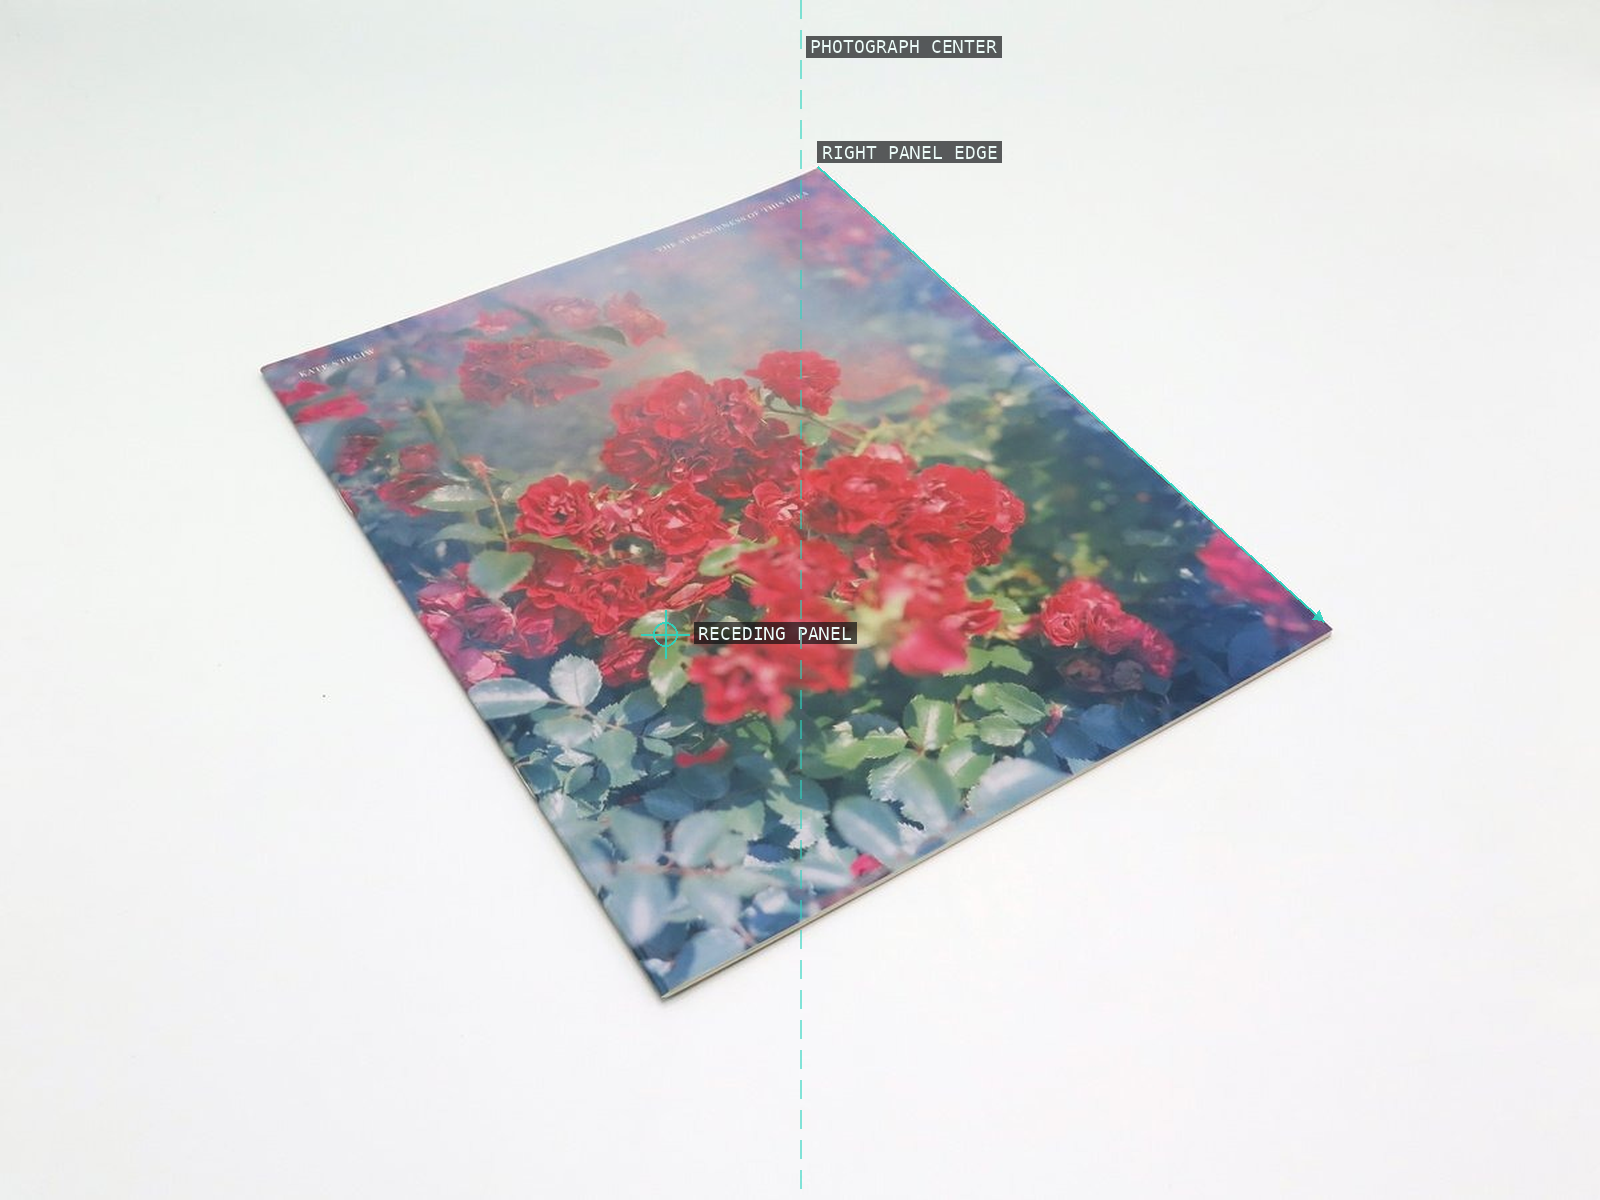
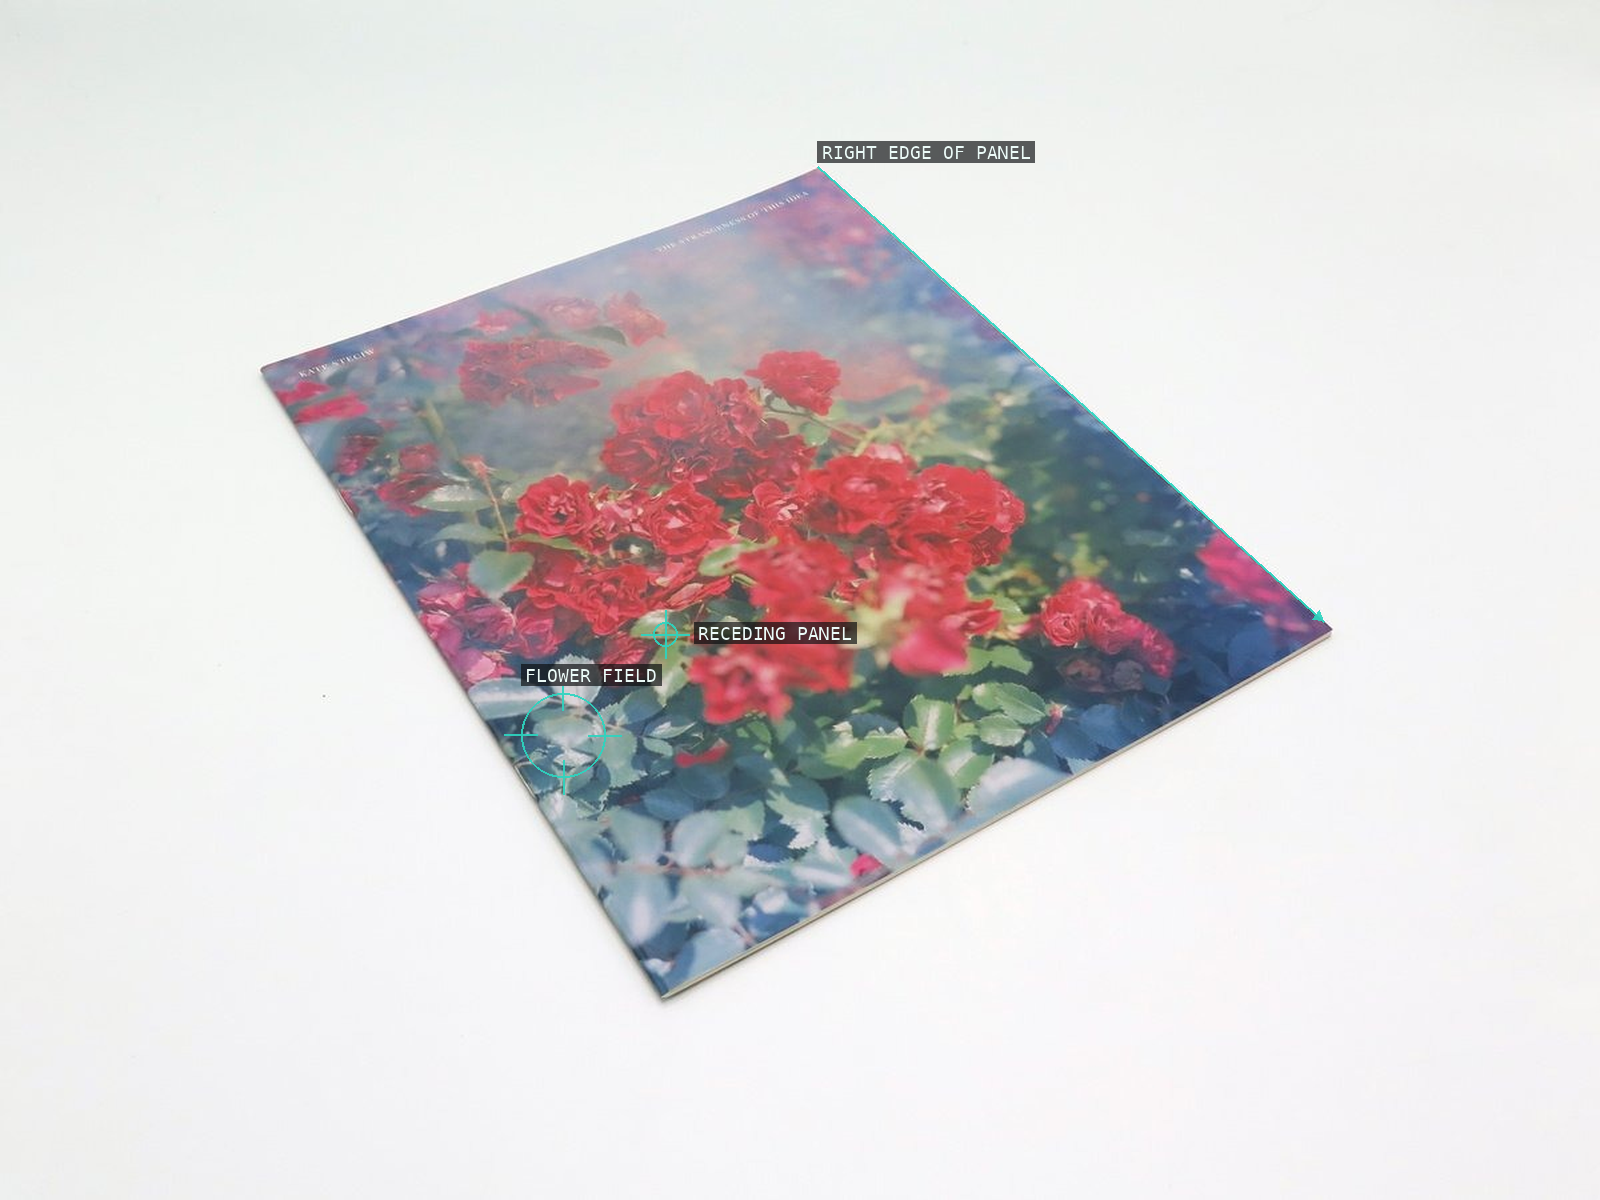
resolve critique: kate-steciw

Changed region(s): [[0.5625, 0.0925, 0.6562, 0.1542], [0.5, 0.0308, 0.625, 0.0617], [0.3125, 0.555, 0.4375, 0.5858]]

diff --git a/content/kate-steciw/proofs/index.html b/content/kate-steciw/proofs/index.html
@@ -1,15 +1,13 @@
 <!doctype html>
-<html lang="en"><head><meta charset="utf-8"><title>Kate Steciw overlay proofs</title><style>body{background:#111;color:#eee;font:14px system-ui;margin:24px}main{display:grid;grid-template-columns:repeat(auto-fit,minmax(280px,1fr));gap:18px}figure{margin:0}img{display:block;width:100%;height:auto}figcaption{margin-top:6px}</style></head><body><h1>Kate Steciw — overlay proofs</h1><main>
-<figure><img src="01-the-strangeness-of-this-idea.png" alt="Overlay proof 01"><figcaption>01 — The Strangeness of This Idea</figcaption></figure>
-<figure><img src="02-construction-433.png" alt="Overlay proof 02"><figcaption>02 — Construction 433</figcaption></figure>
-<figure><img src="03-construction-1029.png" alt="Overlay proof 03"><figcaption>03 — Construction 1029</figcaption></figure>
-<figure><img src="04-construction-143.png" alt="Overlay proof 04"><figcaption>04 — Construction 143</figcaption></figure>
-<figure><img src="05-construction-034.png" alt="Overlay proof 05"><figcaption>05 — Construction 034</figcaption></figure>
-<figure><img src="06-monster-mash-up.png" alt="Overlay proof 06"><figcaption>06 — Monster Mash-up</figcaption></figure>
-<figure><img src="07-dwelling-dialogue.png" alt="Overlay proof 07"><figcaption>07 — Dwelling dialogue</figcaption></figure>
-<figure><img src="08-clean-machine.png" alt="Overlay proof 08"><figcaption>08 — Clean Machine</figcaption></figure>
-<figure><img src="09-img-0383-heicxpict0711.png" alt="Overlay proof 09"><figcaption>09 — IMG_0383.HEICXPICT0711.JPG</figcaption></figure>
-<figure><img src="10-n192914785151-template015.png" alt="Overlay proof 10"><figcaption>10 — N192914785151 Template</figcaption></figure>
-<figure><img src="11-adjustment-exercise-0004-pdf-1-3.png" alt="Overlay proof 11"><figcaption>11 — Adjustment Exercise</figcaption></figure>
-<figure><img src="12-armchair-background-basic-beauty.png" alt="Overlay proof 12"><figcaption>12 — Armchair…Texture</figcaption></figure>
-</main></body></html>
+<html lang="en"><head><meta charset="utf-8"><title>Kate Steciw overlay proofs</title><style>body{font-family:system-ui;margin:24px;background:#18181b;color:#fafafa}main{display:grid;grid-template-columns:repeat(auto-fit,minmax(320px,1fr));gap:20px}figure{margin:0}img{display:block;width:100%;height:auto}figcaption{padding-top:6px;font-size:13px;word-break:break-word}</style></head><body><main><figure><img src="01-the-strangeness-of-this-idea.png" alt="01-the-strangeness-of-this-idea overlay proof"><figcaption>01-the-strangeness-of-this-idea</figcaption></figure>
+<figure><img src="02-construction-433.png" alt="02-construction-433 overlay proof"><figcaption>02-construction-433</figcaption></figure>
+<figure><img src="03-construction-1029.png" alt="03-construction-1029 overlay proof"><figcaption>03-construction-1029</figcaption></figure>
+<figure><img src="04-construction-143.png" alt="04-construction-143 overlay proof"><figcaption>04-construction-143</figcaption></figure>
+<figure><img src="05-construction-034.png" alt="05-construction-034 overlay proof"><figcaption>05-construction-034</figcaption></figure>
+<figure><img src="06-monster-mash-up.png" alt="06-monster-mash-up overlay proof"><figcaption>06-monster-mash-up</figcaption></figure>
+<figure><img src="07-dwelling-dialogue.png" alt="07-dwelling-dialogue overlay proof"><figcaption>07-dwelling-dialogue</figcaption></figure>
+<figure><img src="08-clean-machine.png" alt="08-clean-machine overlay proof"><figcaption>08-clean-machine</figcaption></figure>
+<figure><img src="09-img-0383-heicxpict0711.png" alt="09-img-0383-heicxpict0711 overlay proof"><figcaption>09-img-0383-heicxpict0711</figcaption></figure>
+<figure><img src="10-n192914785151-template015.png" alt="10-n192914785151-template015 overlay proof"><figcaption>10-n192914785151-template015</figcaption></figure>
+<figure><img src="11-adjustment-exercise-0004-pdf-1-3.png" alt="11-adjustment-exercise-0004-pdf-1-3 overlay proof"><figcaption>11-adjustment-exercise-0004-pdf-1-3</figcaption></figure>
+<figure><img src="12-armchair-background-basic-beauty.png" alt="12-armchair-background-basic-beauty overlay proof"><figcaption>12-armchair-background-basic-beauty</figcaption></figure></main></body></html>

diff --git a/content/kate-steciw/sources.md b/content/kate-steciw/sources.md
@@ -1,6 +1,6 @@
 # Kate Steciw — source shortlist
 
-This twelve-work set follows Kate Steciw from the early photograph-object experiment *The Strangeness of This Idea* through the hanging *Construction* works and recent canvas collages. It concentrates on the compositional question that recurs throughout the practice: how a screen-born image is made to behave as a physical, discontinuous object. Eleven files were retrieved from Steciw’s publicly accessible portfolio, which supplies the captions, dates, media, and full-frame display images. *Armchair* was retrieved from the International Center of Photography’s public exhibition record, which identifies the work, date, copyright, and installation photographer. Every saved file opens successfully and is at least 629px on the long edge; the sole 629px short edge is immaterial because the required measure is the long edge (800px).
+This twelve-work set follows Kate Steciw from the early photograph-object experiment *The Strangeness of This Idea* through the 2015 *Construction* works and recent canvas collages. It concentrates on the compositional question that recurs throughout the practice: how a screen-born image is made to behave as a physical, discontinuous object. Eleven files were retrieved from Steciw’s publicly accessible portfolio, which supplies the captions, dates, media, and full-frame display images. *Armchair* was retrieved from the International Center of Photography’s public exhibition record, which identifies the work, date, copyright, and installation photographer. Every saved file opens successfully and is at least 629px on the long edge; the sole 629px short edge is immaterial because the required measure is the long edge (800px).
 
 **Rights basis:** **fair-use** for every selection. These are copyrighted contemporary works, and neither the artist portfolio nor ICP’s exhibition page grants an open licence. Each assessment applies all four factors individually: (1) this nonprofit book uses the image transformatively for criticism, scholarship, and composition teaching; (2) the work is highly creative; (3) the complete published frame is necessary to analyze the work’s framing, cuts, overlays, material supports, and spatial cues, rather than merely illustrating it; and (4) the credited web-sized copy links to the artist or museum record and does not replace the original, a gallery record, or a licensed reproduction. The direct image URLs below are public display responses only; they are not asserted to be permissioned production files.
 
@@ -8,9 +8,9 @@ This twelve-work set follows Kate Steciw from the early photograph-object experi
 
 ### 01 — *The Strangeness of This Idea* (2010)
 
-- **Why it matters:** The paired, tilted panels make the photograph’s frame into an active seam: a mundane car-door image becomes a misaligned object whose central gap defeats ordinary pictorial continuity.
+- **Why it matters:** The single flower-covered panel is photographed low and obliquely on a pale floor, making its thin edge and receding rectangle as legible as the floral picture.
 - **Source:** https://katesteciw.me/ (official artist portfolio; public display image: https://images.squarespace-cdn.com/content/v1/5a32ffcc0abd04e3ddaa6f20/1711723030731-QC1L9XSXO1BWT0GJNOK4/HB014_1.jpg?format=original)
-- **Rights / fair-use assessment:** Kate Steciw, *The Strangeness of This Idea*, 2010; rightsholder: Kate Steciw (no separate copyright line on the portfolio entry). **Factor 1:** transformative criticism studies the split, rotation, and central seam. **Factor 2:** highly creative contemporary photographic/object work. **Factor 3:** the complete two-panel view is necessary to assess the gap and their reciprocal angles. **Factor 4:** this credited 1200 × 900px public display file is record-linked and cannot substitute for the work or a licensed reproduction.
+- **Rights / fair-use assessment:** Kate Steciw, *The Strangeness of This Idea*, 2010; rightsholder: Kate Steciw (no separate copyright line on the portfolio entry). **Factor 1:** transformative criticism analyzes the low, oblique view, visible edge, and shift from floral image to physical panel. **Factor 2:** highly creative contemporary photographic/object work. **Factor 3:** the complete view is necessary to read the panel’s recession, thin edge, and surrounding floor; a crop would remove the spatial presentation. **Factor 4:** this credited 1200 × 900px public display file is record-linked and cannot substitute for the work or a licensed reproduction.
 - **File:** `raw/kate-steciw/01-the-strangeness-of-this-idea.jpg` (1200 × 900px)
 
 ### 02 — *Construction 433* (2015)
@@ -22,9 +22,9 @@ This twelve-work set follows Kate Steciw from the early photograph-object experi
 
 ### 03 — *Construction 1029* (2015)
 
-- **Why it matters:** The soft, hanging satin surface turns a layered digital composition into a long, pliant silhouette, so the image’s edges and folds become part of its spatial syntax.
+- **Why it matters:** The satin form lies folded on the gallery floor, turning a layered digital composition into a looping, pliant configuration whose bends and contours organize the view.
 - **Source:** https://katesteciw.me/ (official artist portfolio; public display image: https://images.squarespace-cdn.com/content/v1/5a32ffcc0abd04e3ddaa6f20/1542234823465-FRLQ7YNO63T0FISGD5JO/4a.jpg?format=original)
-- **Rights / fair-use assessment:** Kate Steciw, *Construction 1029*, 2015, dye sublimation on satin; rightsholder: Kate Steciw (no separate copyright line displayed). **Factor 1:** transformative criticism examines hanging contour, folds, and the transfer from screen collage to textile. **Factor 2:** highly creative contemporary work. **Factor 3:** the full suspended form is needed to read its changing perimeter. **Factor 4:** this credited 2395 × 3193px public display copy is linked to the artist’s portfolio and does not replace the original or a licensed reproduction.
+- **Rights / fair-use assessment:** Kate Steciw, *Construction 1029*, 2015, dye sublimation on satin; rightsholder: Kate Steciw (no separate copyright line displayed). **Factor 1:** transformative criticism examines the floor-bound folds, looping contour, and transfer from screen collage to textile. **Factor 2:** highly creative contemporary work. **Factor 3:** the complete floor-level view is necessary to relate the folds and changing perimeter to the form’s contact with the gallery floor. **Factor 4:** this credited 2395 × 3193px public display copy is linked to the artist’s portfolio and does not replace the original or a licensed reproduction.
 - **File:** `raw/kate-steciw/03-construction-1029.jpg` (2395 × 3193px)
 
 ### 04 — *Construction 143* (2015)

diff --git a/content/kate-steciw/research.md b/content/kate-steciw/research.md
@@ -8,7 +8,7 @@ Gallery and press material locates Steciw’s practice in the physical afterlife
 
 ## Technique and era
 
-The sequence spans an early image-object view from 2010, hanging *Construction* works from 2015, and recent canvas collages from 2023–24. Across it, photographic material is not treated as a transparent window. It is printed, folded, cut, layered, suspended, framed, and shown with the room around it. The result is a recurring oscillation between the visible source image and the literal object that carries it.
+The sequence spans an early image-object view from 2010, 2015 *Construction* works, and recent canvas collages from 2023–24. Across it, photographic material is not treated as a transparent window. It is printed, folded, cut, layered, suspended where the view shows suspension, framed, and shown with the room around it. The result is a recurring oscillation between the visible source image and the literal object that carries it.
 
 The records identify the 2015 *Construction* works as dye sublimation on aluminum or satin, with chain and carabiners where listed. They identify the 2023–24 collages as inkjet prints on canvas, collage on panel. Those are recorded media descriptions, not complete production recipes. The chapter therefore describes visible cut edges, overlaps, folds, frames, and installation relations rather than claiming undocumented software steps.
 

diff --git a/content/kate-steciw/critique.md b/content/kate-steciw/critique.md
@@ -1,4 +1,4 @@
-verdict: revise
+verdict: resolved
 
 ## Critique round — 2026-07-26
 
@@ -12,3 +12,13 @@ verdict: revise
 
 - All twelve specs pass the deterministic scorer at 100/100. The required items above are semantic/visual-truth failures that the geometric scorer is not designed to detect.
 - The other proofs were visually checked against their specs and chapter claims; no additional materially misleading issue was found.
+
+## Resolution — 2026-07-26
+
+All required corrections are applied and were re-rendered, visually checked, and re-scored at 100/100:
+
+1. **01-the-strangeness-of-this-idea:** `sources.md` now identifies the single floor-level flower panel and bases the fair-use rationale on its oblique view, visible edge, and surrounding floor. The overlay now labels the actual panel edge and flower field.
+2. **03-construction-1029:** source notes and chapter now describe the satin work as floor-bound. The false symmetry/hanging-center claim was replaced by a `red textile arc` tracing the visible folded form.
+3. **08-clean-machine:** the anchor now lands on the lower blue base at `(0.450, 0.690)`; the chapter uses the same feature name. The false symmetry guide was replaced with the visible framed-image structure.
+
+Re-verified prior required-fix rounds: 2026-07-26 critique round (the complete critique history). The content and site chapter remain byte-identical.
